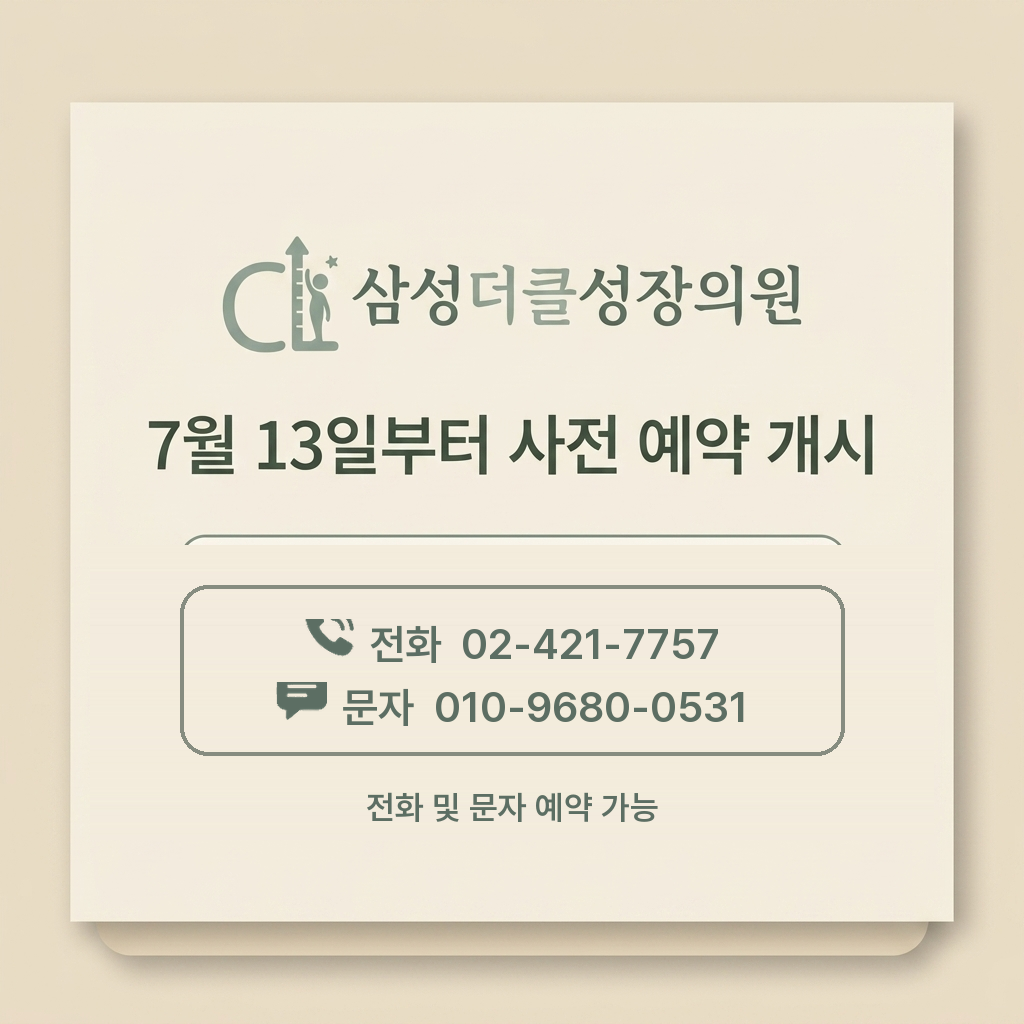
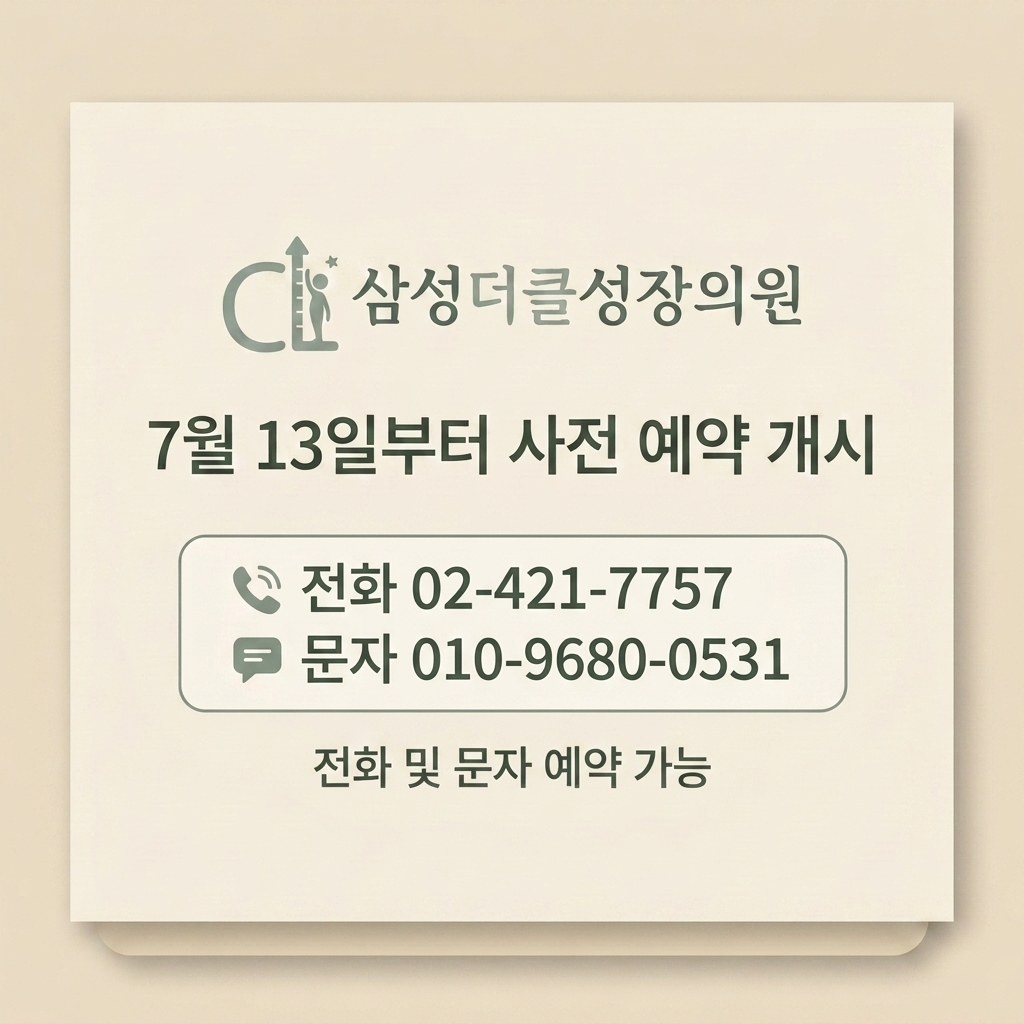
feat: add image processing script and new template files for popup notice customization

Changed region(s): [[0.1562, 0.5312, 0.8438, 0.8125]]

diff --git a/gnuboard/theme/the_cl/img/edit_popup_notice.py b/gnuboard/theme/the_cl/img/edit_popup_notice.py
@@ -86,7 +86,31 @@ def edit_popup_notice():
     m_w, m_h = msg_icon.size
     msg_icon = msg_icon.resize((int(m_w * icon_h / m_h), icon_h), Image.Resampling.LANCZOS)
     
-    # 3. Erase old bottom area in the main image using row-based background copy
+    # 3. Erase old logo area and paste brand_logo.png
+    logo_path = os.path.join(script_dir, 'brand_logo.png')
+    if os.path.exists(logo_path):
+        logo_img = Image.open(logo_path).convert("RGBA")
+        # Target height = 110px, keep aspect ratio
+        target_h = 110
+        l_w, l_h = logo_img.size
+        target_w = int(l_w * (target_h / l_h))
+        logo_resized = logo_img.resize((target_w, target_h), Image.Resampling.LANCZOS)
+        
+        # Erase old logo area in img (y=230 to y=365) using background color (232, 220, 198)
+        bg_color = (232, 220, 198)
+        for y in range(230, 365):
+            for x in range(90, 934):
+                img.putpixel((x, y), bg_color)
+                
+        # Paste new logo at the center (centered at X=512, Y=295)
+        logo_x = 512 - target_w // 2
+        logo_y = 295 - target_h // 2
+        img.paste(logo_resized, (logo_x, logo_y), logo_resized)
+        print("New logo replaced at Y:", logo_y)
+    else:
+        print("brand_logo.png not found, skipping logo replacement")
+
+    # 4. Erase old bottom area in the main image using row-based background copy
     # We erase y=545 to y=840, x=90 to x=934
     for y in range(545, 840):
         # Read clean background pixel from x=100 (definitely inside the card)

diff --git a/gnuboard/theme/the_cl/sub/sub2_1.php b/gnuboard/theme/the_cl/sub/sub2_1.php
@@ -137,7 +137,7 @@ include_once(G5_PATH.'/head.php');
           <div class="ed-step__body">
             <span class="ed-step__eyebrow">Step 6</span>
             <h3 class="ed-step__title">건강 · 대사 상태 평가</h3>
-            <p class="ed-step__desc"><strong>기초 대사 및 영양 분석</strong>: 빈혈, 비타민D, 갑상선 기능, 간, 신장 기능 검사 및 체성분(InBody) 분석을 통해 내적인 성장 환경 최적화</p>
+            <p class="ed-step__desc"><strong>기초 대사 및 영양 분석</strong>: 빈혈, 비타민D, 갑상선 기능, 간, 신장 기능 검사 및 체성분(InBody) 분석</p>
           </div>
         </div>
       </div>
@@ -151,7 +151,7 @@ include_once(G5_PATH.'/head.php');
         <span class="ed-kicker">Comprehensive Solution</span>
         <h2>종합 <strong>성장잠재력 분석</strong></h2>
         <p style="font-size: 15px; color: var(--c-text-light); margin-top: 10px; line-height: 1.6; word-break: keep-all;">
-          앞선 6단계의 정밀 검사 결과를 종합하여 더클만의 최종 성장 솔루션을 도출합니다.
+          앞선 6단계의 정밀 검사 결과를 종합하여<br>더클만의 최종 성장 솔루션을 도출합니다.
         </p>
       </div>
       

diff --git a/gnuboard/theme/the_cl/sub/sub4_2.php b/gnuboard/theme/the_cl/sub/sub4_2.php
@@ -151,10 +151,6 @@ include_once(G5_PATH.'/head.php');
       <p class="lead">
         보호자분들이 가장 많이 질문해 주시는 성장 클리닉 핵심 Q&A입니다.
       </p>
-      <p>
-        더 궁금한 점은 전화나 카카오톡 채널로 문의해 주세요.
-        세부전문의가 직접 확인하고 정확하게 안내해 드립니다.
-      </p>
     </div>
   </div>
   <div class="ed-collage reveal reveal-delay-2">

diff --git a/gnuboard/theme/the_cl/sub/sub3_4.php b/gnuboard/theme/the_cl/sub/sub3_4.php
@@ -123,7 +123,6 @@ include_once(G5_PATH.'/head.php');
   </div>
   <p class="reveal" style="margin-top: 20px; font-size: 14px; color: var(--c-text-light); font-weight: 400;">
     ※ 상기 비용은 부가세 포함 금액이며, 환자의 개별 상태와 처방 용량에 따라 달라질 수 있습니다.
-    질환 목적의 성장호르몬 치료는 조건 충족 시 실손 보험 적용 대상이 될 수 있습니다.
   </p>
 </section>
 
